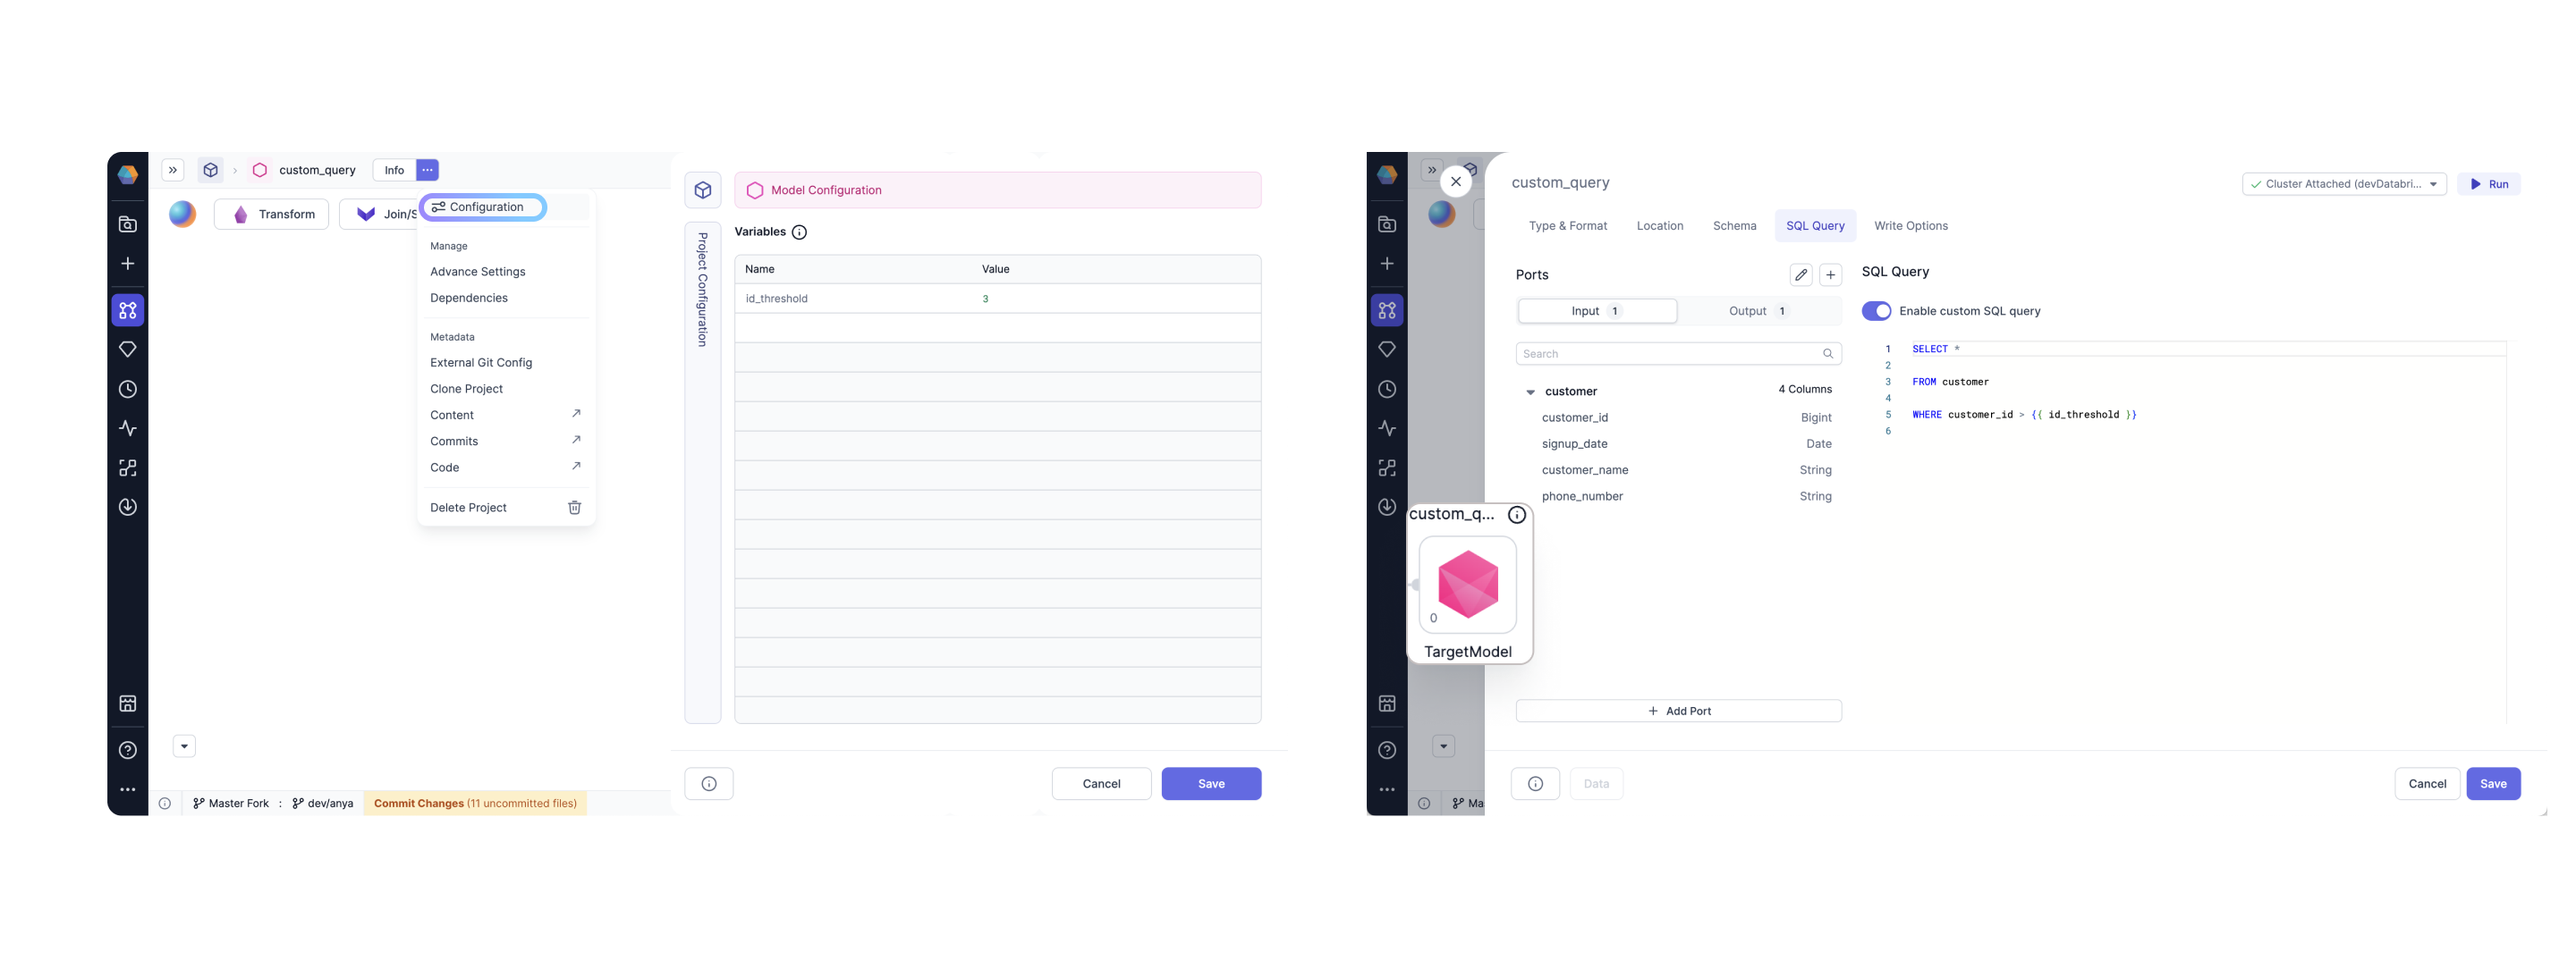
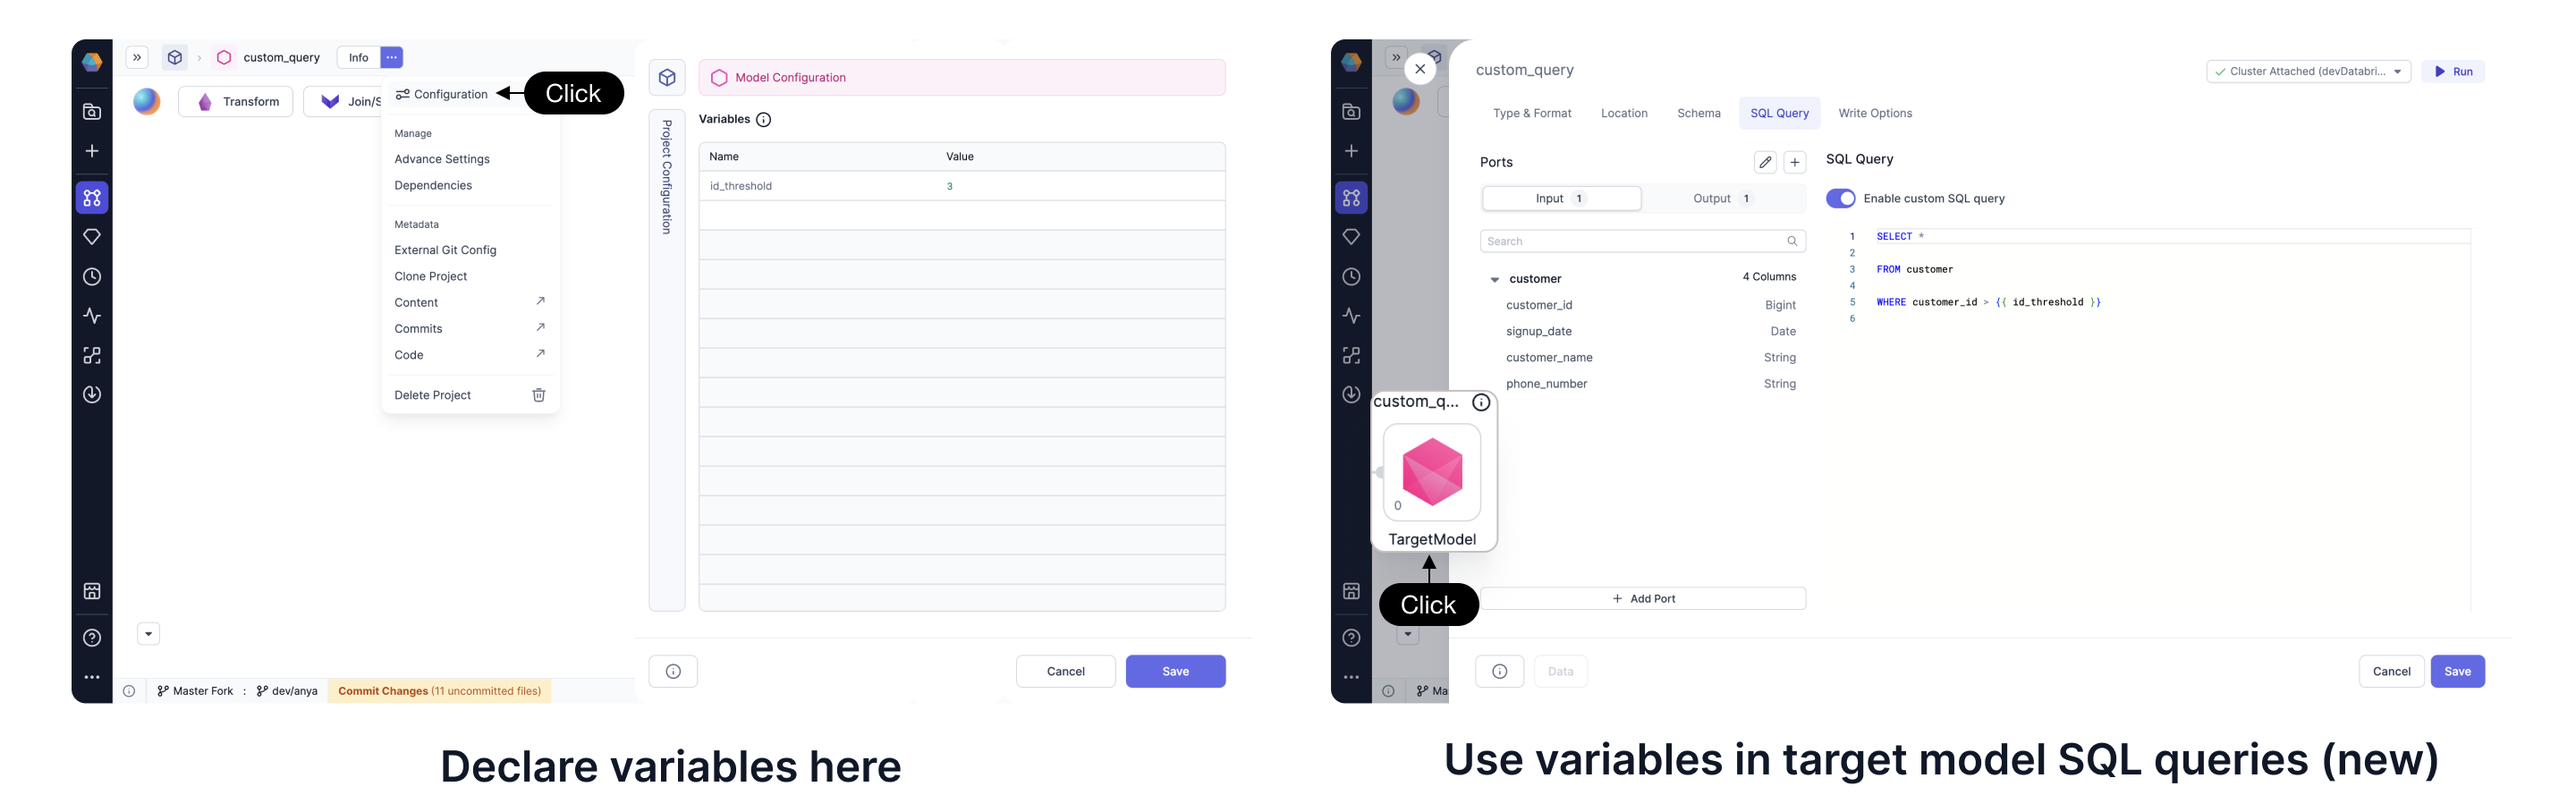
update release notes

diff --git a/docs/release_notes/2024/august2024/new-ui-sql.md b/docs/release_notes/2024/august2024/new-ui-sql.md
@@ -14,12 +14,7 @@ tags:
 
 ## Available in Prophecy Release 3.3.9
 
-Prophecy's SQL Transformation Copilot has a new user interface in four different areas. Check them out in the video and/or the descriptions below. Find out what to expect in your new user interface for an even easier experience.
-
-<div style={{position: 'relative', 'padding-bottom': '56.25%', height: 0}}>
-   <iframe src="https://www.loom.com/embed/3b181d2e60ad4e3094c0a8bb36f8a601?sid=d8385d0b-b309-4e72-b5ed-a49ade2ee492" frameborder="0" webkitallowfullscreen mozallowfullscreen allowfullscreen
-      style={{position: 'absolute', top: 0, left: 0, width: '100%', height: '100%'}}></iframe>
-</div>
+Prophecy's SQL Transformation Copilot has a new user interface in four different areas. Check them out in the video or the descriptions below. Find out what to expect in your new user interface for an even easier experience.
 
 ### Model write options
 
@@ -35,14 +30,25 @@ There are now the following tabs within the model:
 - **SQL Query**: View and enable your custom SQL query
 - **Write Options**: Use Write Modes such as Overwrite, Append, and Merge
 
-### Variable Declaration Interface
+### Variable Declaration and the Target Model SQL Query interface
 
-We've added the powerful functionality to configure variables directly in the SQL Query for each target model. Normally only advanced users would be able to configure the code view with declared variables. With this release, declared variables are accessible by clicking **configure** to add the variable of interest (left). Just use the variable for the relevant model in the target model SQL Query tab (right).
+We've added the powerful functionality to configure variables directly in a SQL Query for each target model. Normally only advanced users would be able to use jinja or DBT templating with declared variables for their last mile data processing. Declared variables are accessible by clicking **configure** to add the variable of interest (left). With this release, you can use the variable (along with standard DBT functions) in the target model SQL Query tab (right).
 
 ![DelcarVars](./img/declare-vars.png)
 
 ### Building SCD2 Tables
 
+Slowly changing dimensions (SCD) doesn't have to be so challenging. With this release, you can take advantage of Prophecy's visual interface to configure SCD type 2 writes and retain data history. Open the Target Model Gem, select Table format. Just select a unique key and the relevant timestamp column for your data. Now any data practitioner can capture updated records without deleting the previous records.
+
+![SCD2](./img/scd2.png)
+
 ### Visual Expression Builder
 
 You can use a simplified expression builder within your data transformation Gems, Data Explorer, and Data Tests. The Visual Expression Builder takes you through building your expressions, following a step-by-step visual guide. It suggests expressions and functions to you, including nested and conditional functions. All the while, you don't have to worry about writing the expression syntax since it takes care of that for you.
+
+![expressionBuilder](./img/expression-builder.png)
+
+<div style={{position: 'relative', 'padding-bottom': '56.25%', height: 0}}>
+   <iframe src="https://www.loom.com/embed/3b181d2e60ad4e3094c0a8bb36f8a601?sid=d8385d0b-b309-4e72-b5ed-a49ade2ee492" frameborder="0" webkitallowfullscreen mozallowfullscreen allowfullscreen
+      style={{position: 'absolute', top: 0, left: 0, width: '100%', height: '100%'}}></iframe>
+</div>

diff --git a/docs/release_notes/2024/august2024/august2024.md b/docs/release_notes/2024/august2024/august2024.md
@@ -9,7 +9,7 @@ tags:
   - august
 ---
 
-## 3.3.9.\* (August 8, 2024)
+## 3.3.9.\* (August 12, 2024)
 
 - Prophecy Python libs version: 1.9.9
 - Prophecy Scala libs version: 8.0.29
